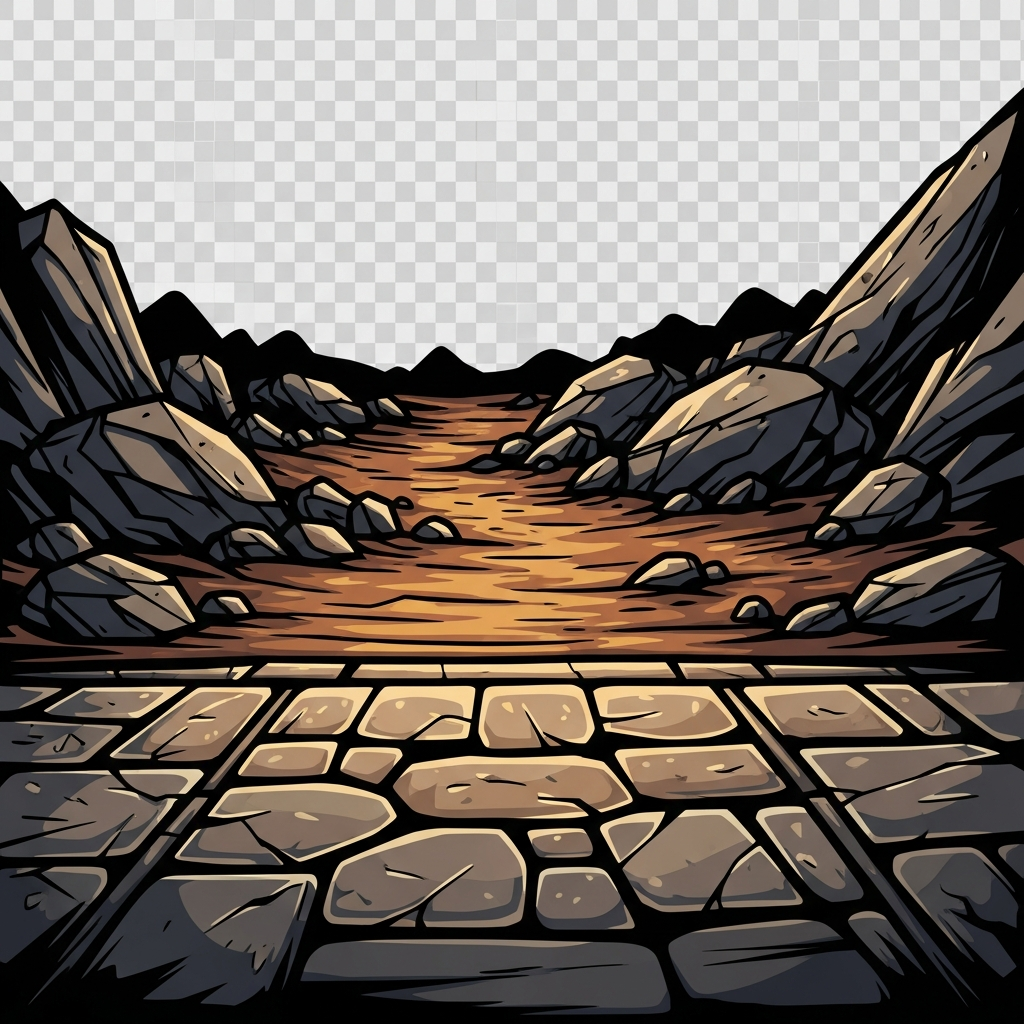
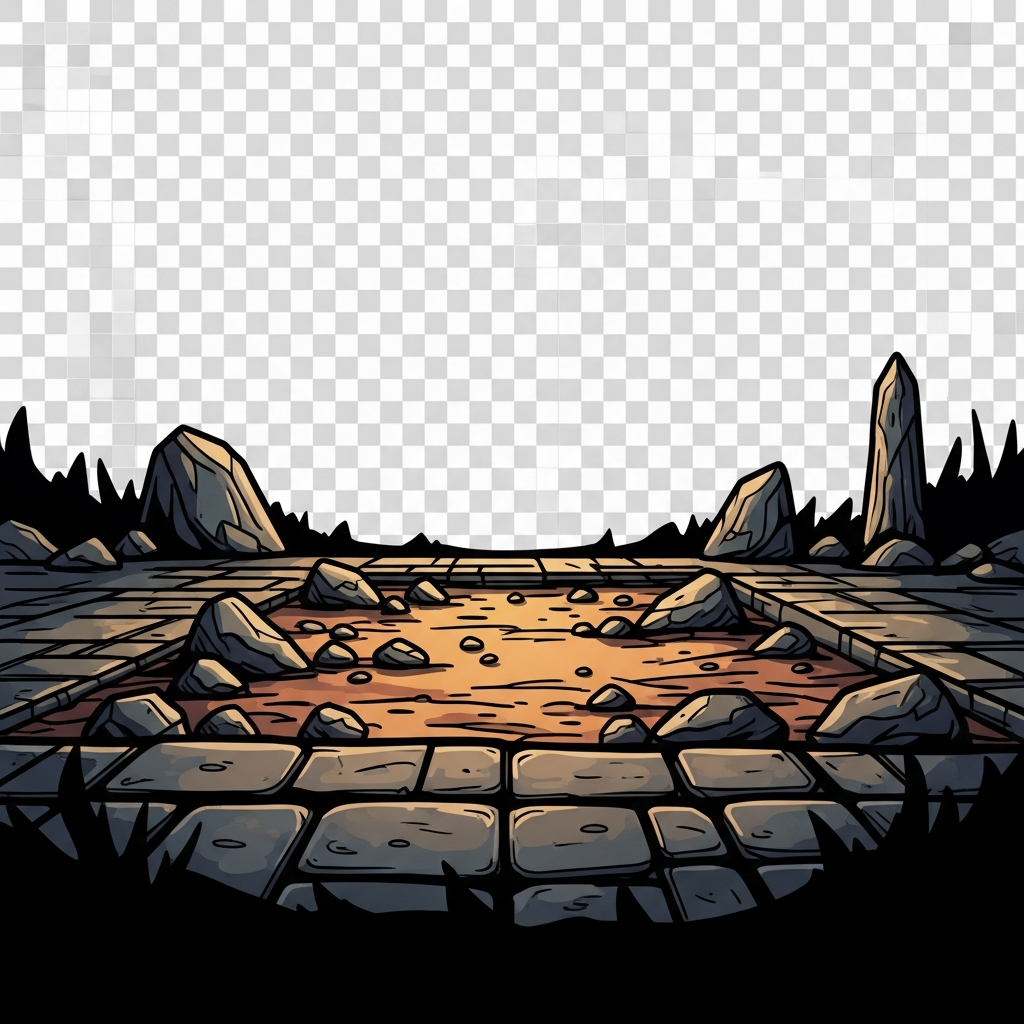
Fix background transparency issues
- Updated background generation prompts to emphasize complete transparency
- Added explicit instructions to remove white areas and checkerboard patterns
- Regenerated all three background layers with proper alpha channel transparency
- Backgrounds now have true transparent backgrounds instead of fake checkerboard

diff --git a/generate_backgrounds.py b/generate_backgrounds.py
@@ -11,15 +11,15 @@ import subprocess
 backgrounds = {
     "bg-far": {
         "filename": "assets/bg-far.png",
-        "prompt": "Dark fantasy comic book style, thick jagged black outlines, cel-shaded, hard edges, earthy saturated colors, hand-drawn vector aesthetic. Distant fantasy landscape, mountains in background, dark stormy sky, castle ruins on horizon, transparent background, high contrast, fantasy environment."
+        "prompt": "Dark fantasy comic book style, thick jagged black outlines, cel-shaded, hard edges, earthy saturated colors, hand-drawn vector aesthetic. Distant fantasy landscape, mountains in background, dark stormy sky, castle ruins on horizon, COMPLETELY TRANSPARENT BACKGROUND, no white areas, no checkerboard, only the landscape elements visible, alpha channel transparency, high contrast, fantasy environment."
     },
     "bg-near": {
         "filename": "assets/bg-near.png", 
-        "prompt": "Dark fantasy comic book style, thick jagged black outlines, cel-shaded, hard edges, earthy saturated colors, hand-drawn vector aesthetic. Mid-ground fantasy forest, twisted trees, rocky terrain, misty atmosphere, some vegetation, transparent background, high contrast, fantasy environment."
+        "prompt": "Dark fantasy comic book style, thick jagged black outlines, cel-shaded, hard edges, earthy saturated colors, hand-drawn vector aesthetic. Mid-ground fantasy forest, twisted trees, rocky terrain, misty atmosphere, some vegetation, COMPLETELY TRANSPARENT BACKGROUND, no white areas, no checkerboard, only the forest elements visible, alpha channel transparency, high contrast, fantasy environment."
     },
     "bg-ground": {
         "filename": "assets/bg-ground.png",
-        "prompt": "Dark fantasy comic book style, thick jagged black outlines, cel-shaded, hard edges, earthy saturated colors, hand-drawn vector aesthetic. Ground level terrain, stone floor, dirt path, scattered rocks, battle arena ground, transparent background, high contrast, fantasy environment."
+        "prompt": "Dark fantasy comic book style, thick jagged black outlines, cel-shaded, hard edges, earthy saturated colors, hand-drawn vector aesthetic. Ground level terrain, stone floor, dirt path, scattered rocks, battle arena ground, COMPLETELY TRANSPARENT BACKGROUND, no white areas, no checkerboard, only the ground elements visible, alpha channel transparency, high contrast, fantasy environment."
     }
 }
 

diff --git a/README.md b/README.md
@@ -38,11 +38,11 @@ The goal is to reach feature parity with the core mechanics of Slay the Spire.
 ### Phase 2: Art & UX (Current)
 - [x] **Full Screen UI:** Update CSS to make the play area fill the entire browser window (100vw/100vh).
 - [x] **Character Layout:** Move Player character left and up to avoid overlap with hand cards.
-- [ ] **Card Template:** Create a consistent HTML/CSS frame for cards with detailed image for the template border, like a MTG card (border, title, cost, desc, image container).
-- [ ] **Card Hover UX:** Add detailed tooltips and descriptions when hovering cards.
-- [ ] **Gen Art: Characters:** Use `nano-banana-pro` to generate Ironclad/Silent sprites. Style: "Dark fantasy comic book style, thick jagged black outlines, cel-shaded, hard edges, earthy saturated colors, hand-drawn vector aesthetic." (Transparent bg).
-- [ ] **Gen Art: Backgrounds:** Use `nano-banana-pro` to generate detailed fight backgrounds (Ground, Near, Far layers). Same thick-line comic style.
-- [ ] **Parallax Effect:** Implement parallax scrolling/mouse-movement for the background layers in a fight scene. The characters are standing on the ground, and 2 layers of background behind them, close and far. The close layer should move more than the far layer when the mouse moves.
+- [x] **Card Template:** Create a consistent HTML/CSS frame for cards with detailed image for the template border, like a MTG card (border, title, cost, desc, image container).
+- [x] **Card Hover UX:** Add detailed tooltips and descriptions when hovering cards.
+- [x] **Gen Art: Characters:** Use `nano-banana-pro` to generate Ironclad/Silent sprites. Style: "Dark fantasy comic book style, thick jagged black outlines, cel-shaded, hard edges, earthy saturated colors, hand-drawn vector aesthetic." (Transparent bg).
+- [x] **Gen Art: Backgrounds:** Use `nano-banana-pro` to generate detailed fight backgrounds (Ground, Near, Far layers). Same thick-line comic style.
+- [x] **Parallax Effect:** Implement parallax scrolling/mouse-movement for the background layers in a fight scene. The characters are standing on the ground, and 2 layers of background behind them, close and far. The close layer should move more than the far layer when the mouse moves.
 - [x] **Gen Art: Cards:** Use `nano-banana-pro` to generate unique art for all implemented cards. Style: High contrast, thick lines, dynamic action shots.
 
 ## How to Play
